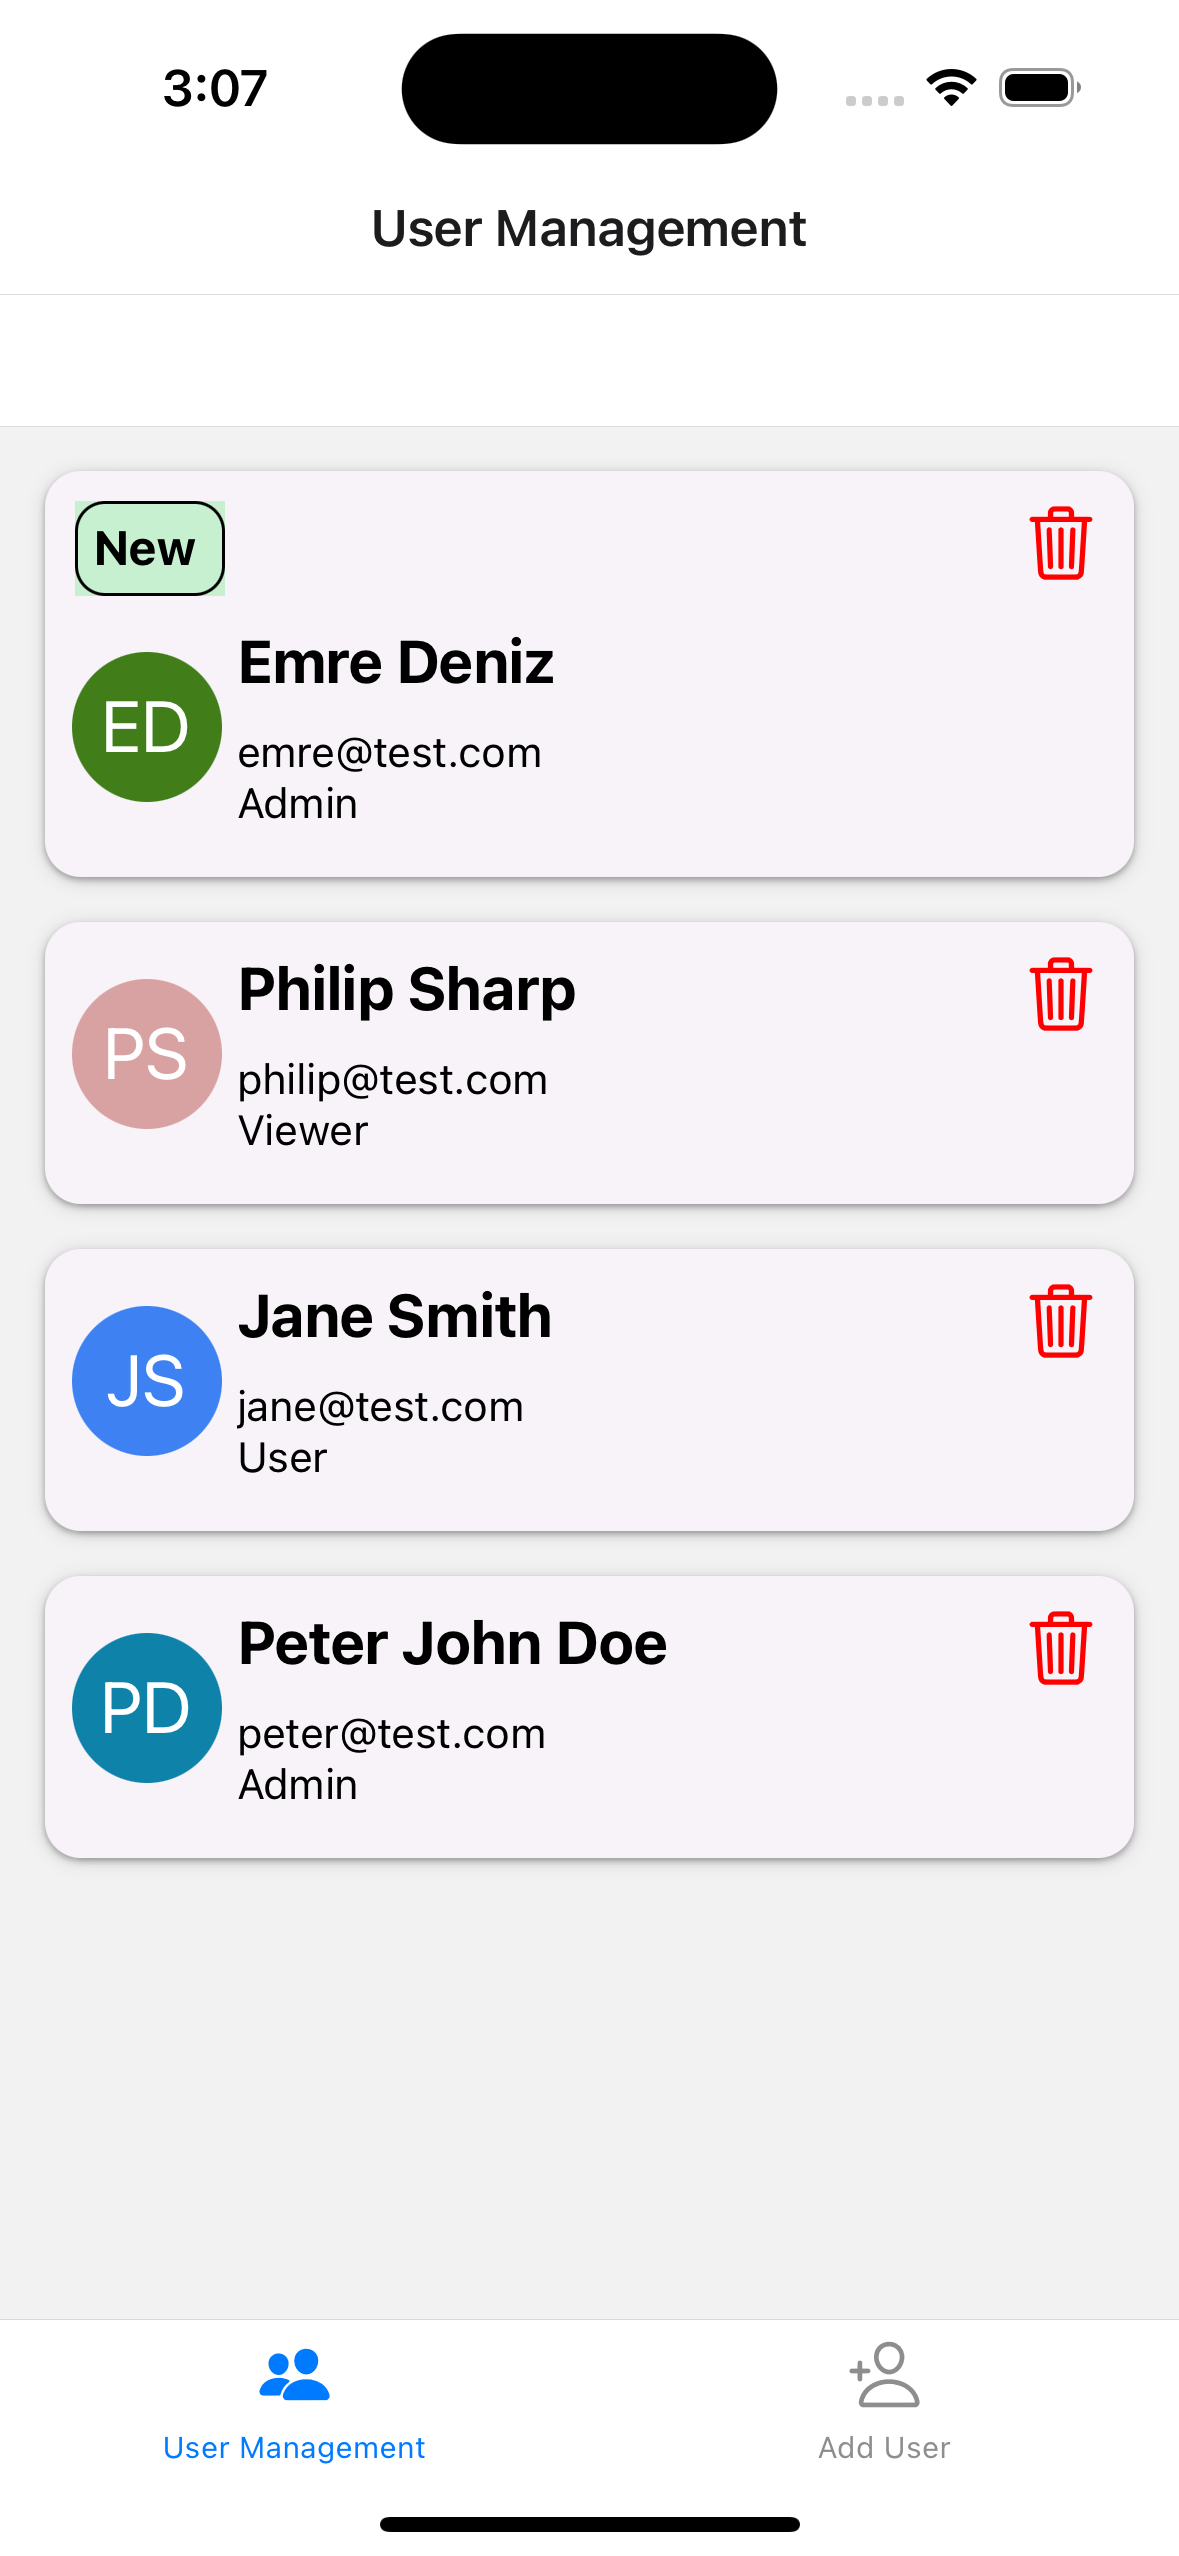
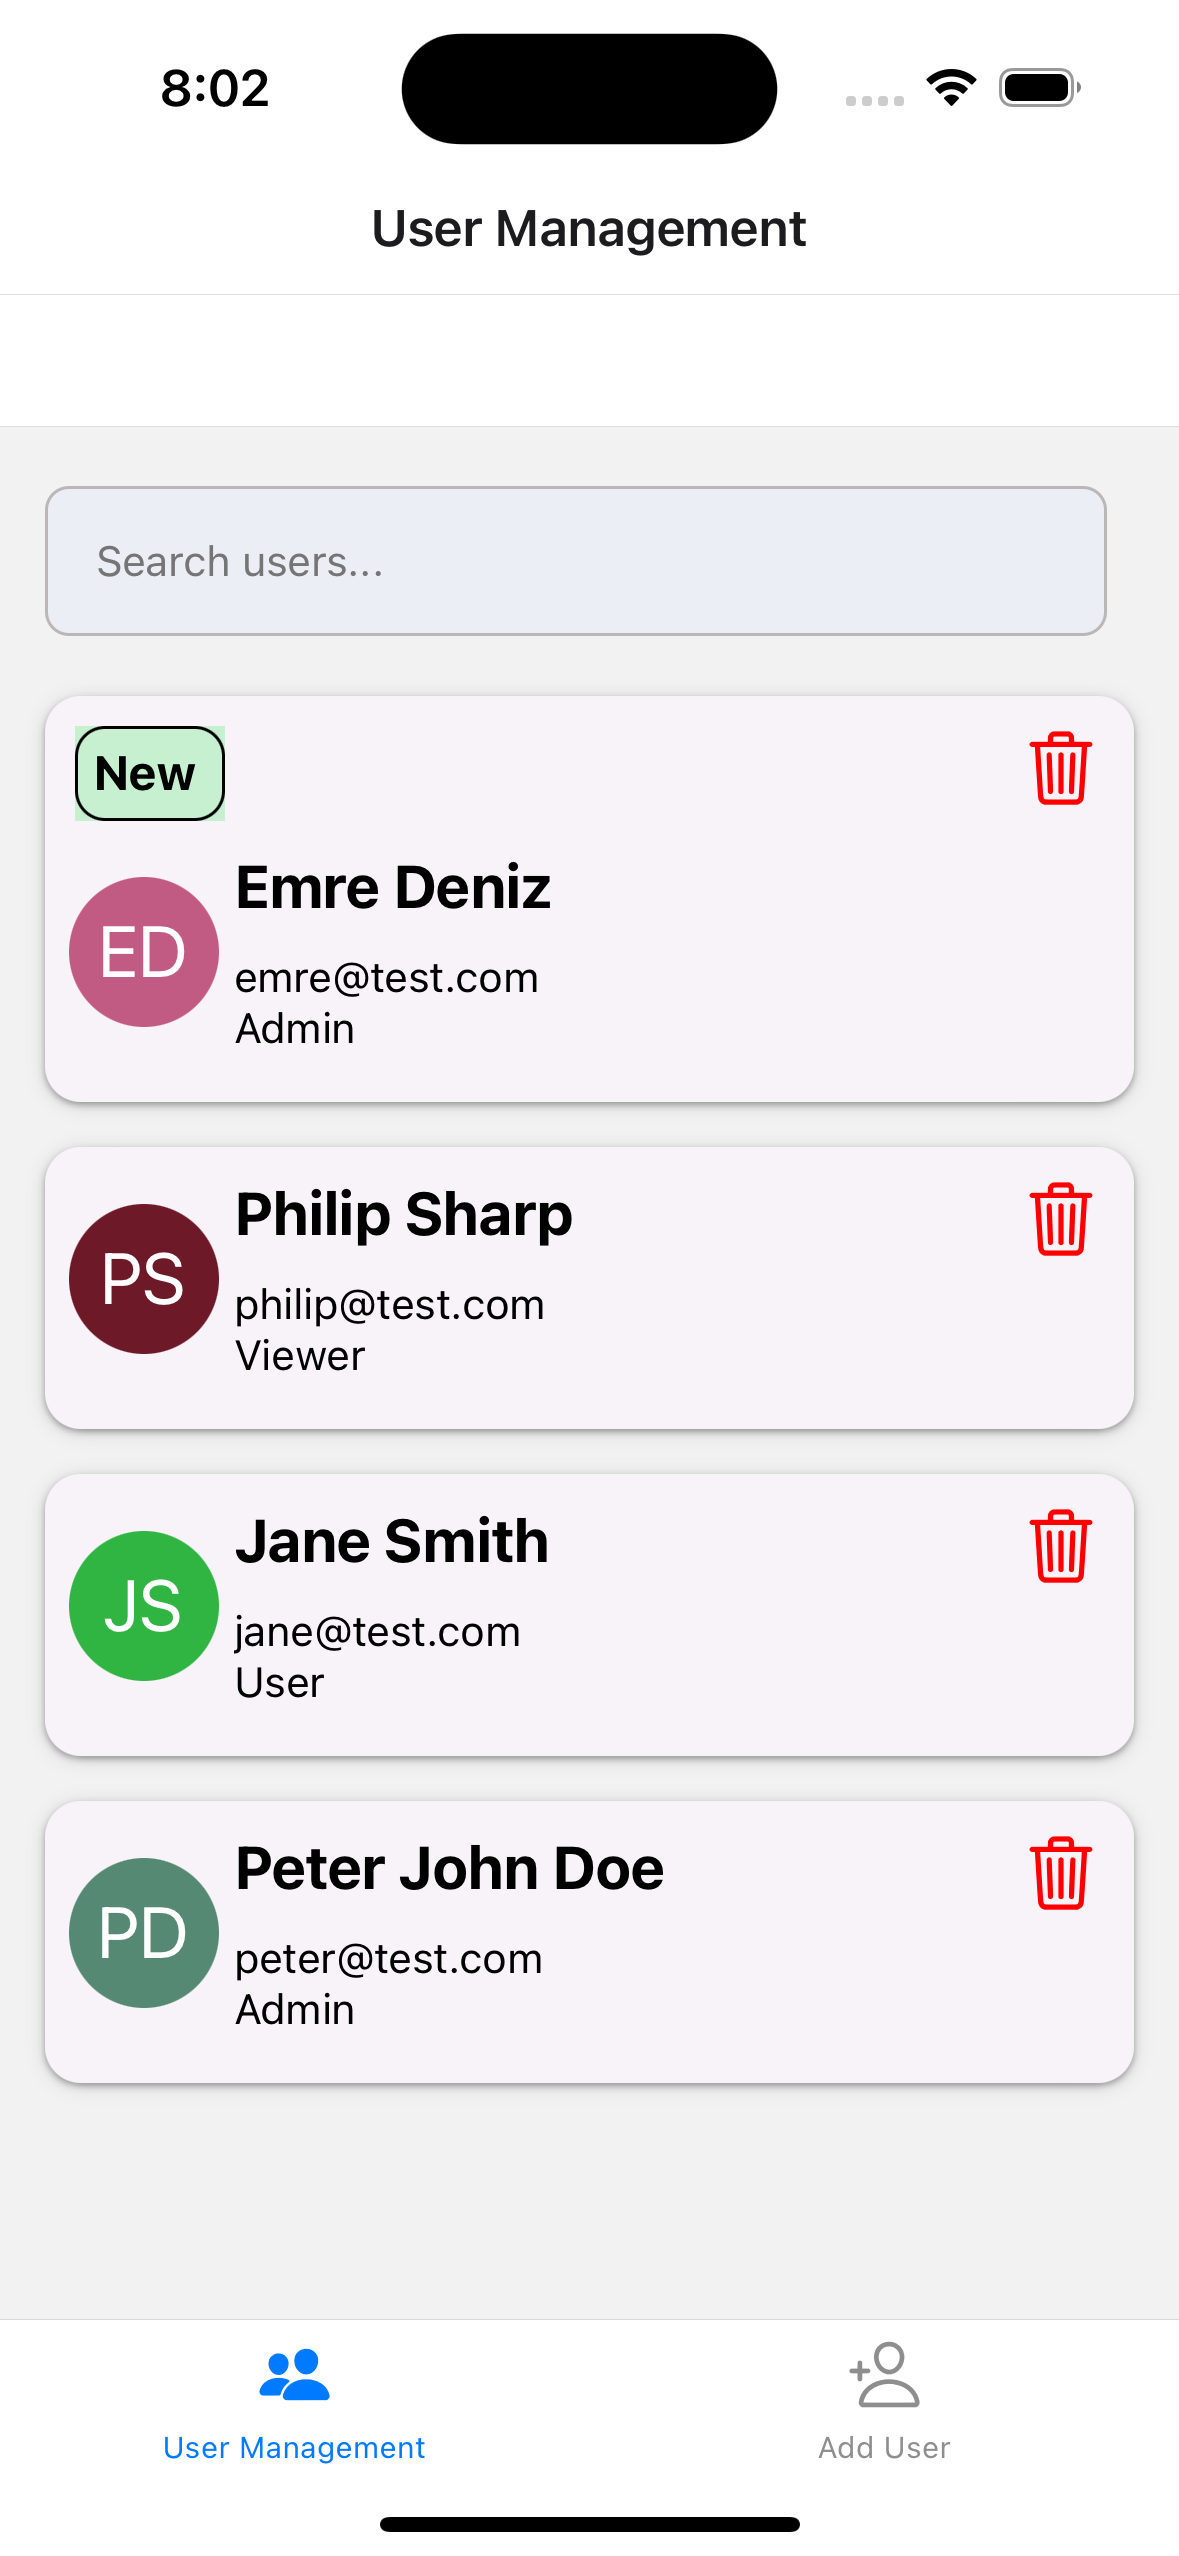
feat(search): search users on the user list screen

Changed region(s): [[0.0305, 0.1854, 0.9771, 0.8036], [0.855, 0.1854, 0.9466, 0.2473]]

diff --git a/screens/UserList.tsx b/screens/UserList.tsx
@@ -1,10 +1,7 @@
-/**
- * @author Emre Deniz
- * @date April, 2024
- */
-
+// Import the necessary components and hooks
 import React, { useState, useEffect } from 'react';
 import { TouchableOpacity, ScrollView, Text, Alert, View, Modal } from 'react-native';
+import TextInput from "react-native-text-input-interactive";
 import { Card } from 'react-native-paper';
 import { Ionicons } from '@expo/vector-icons';
 import { useNavigation, useFocusEffect } from '@react-navigation/native';
@@ -16,7 +13,8 @@ import UserAvatar  from '../lib/UserAvatar';
 
 export default function UserListScreen() {
   const [userList, setUserList] = useState<User[] | []>([]);
-  const [isMsgVisible, setIsMsgVisible] = useState(false)
+  const [searchText, setSearchText] = useState<string>('');
+  const [isMsgVisible, setIsMsgVisible] = useState(false);
 
   const navigation = useNavigation();
 
@@ -62,10 +60,11 @@ export default function UserListScreen() {
     );
   };
 
-  // Fetch users from API when focus
+  // Fetch users from API and reset the search when focus
   useFocusEffect(
     React.useCallback(() => {
       getUsersFromAPI();
+      setSearchText('');
     }, [])
   );
 
@@ -76,11 +75,28 @@ export default function UserListScreen() {
     }, 1500);
   }, [isMsgVisible])
 
+  // Filter user list
+  const filteredUserList = userList.filter((user) =>
+    user.name.toLowerCase().includes(searchText.toLowerCase())
+  );
+
   return (
     <ScrollView contentContainerStyle={styles.container}>
 
+      {/* Search input box */}
+      <TextInput
+        style={styles.input}
+        placeholder="Search users..."
+        value={searchText}
+        onChangeText={setSearchText}
+        autoComplete="off"
+        autoCapitalize="none"
+        autoCorrect={false}
+        originalColor="#BCB7B7"
+      />
+
       {/* User list */}
-      {userList.map((user) => (
+      {filteredUserList.map((user) => (
         // @ts-ignore
         <TouchableOpacity key={user.id} onPress={() => {navigation.navigate('Details', { user });}}>
           <Card style={styles.card}>
@@ -95,10 +111,10 @@ export default function UserListScreen() {
               onPress={() => handleDelete(user.id, user.name)}
             />
             <Card.Content>
-              <View style={{flex: 1, flexDirection: "row"}}>
+              <View style={styles.flexRow}>
                 <UserAvatar name={user.name} />
                 <View>
-                  <Text style={styles.title}>{user.name}</Text>
+                  <Text numberOfLines={2} style={styles.title}>{user.name}</Text>
                   <Text>{user.email}</Text>
                   <Text>{user.role}</Text>
                 </View>
@@ -107,6 +123,7 @@ export default function UserListScreen() {
           </Card>
         </TouchableOpacity>
       ))}
+      { filteredUserList.length == 0 && <Text>No users found.</Text> }
 
       {/* Success message modal */}
       <Modal

diff --git a/lib/Styles.tsx b/lib/Styles.tsx
@@ -147,7 +147,7 @@ export default StyleSheet.create({
     alignItems: 'center',
     justifyContent: 'center',
     marginTop: 10,
-    marginLeft: -7,
+    marginLeft: -8,
     marginRight: 5
   },
   avatar: {
@@ -179,4 +179,8 @@ export default StyleSheet.create({
     padding: 40,
     borderRadius: 30,
   },
+  flexRow: {
+    flex: 1,
+    flexDirection: "row"
+  }
 });

diff --git a/README.md b/README.md
@@ -22,11 +22,12 @@ Open new terminal
 ### FEATURES:
 1. The app uses REST API server
 2. List all users
-3. Add a new user
-4. View user details
-5. Update user information
-6. Delete a user
-7. Tag the most recent user (using Redux store)
+3. Search users
+4. Add a new user
+5. View user details
+6. Update user information
+7. Delete a user
+8. Tag the most recent user (using Redux store)
 
 ### SCREENSHOTS:
 <kbd><img src="screenshots/SS_1.png" height="400"/></kbd>    <kbd><img src="screenshots/SS_6.png" height="400"/></kbd>    <kbd><img src="screenshots/SS_7.png" height="400"/></kbd>    <kbd><img src="screenshots/SS_8.png" height="400"/></kbd>
